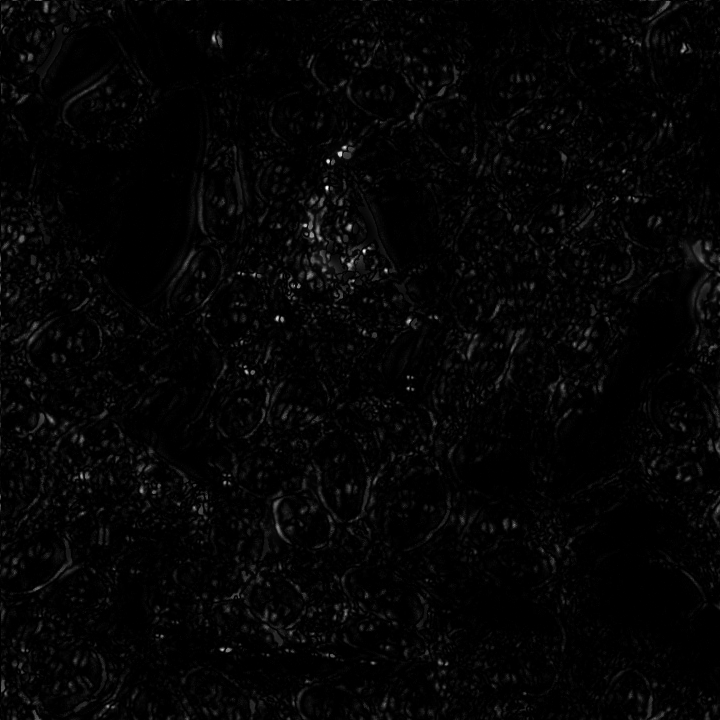
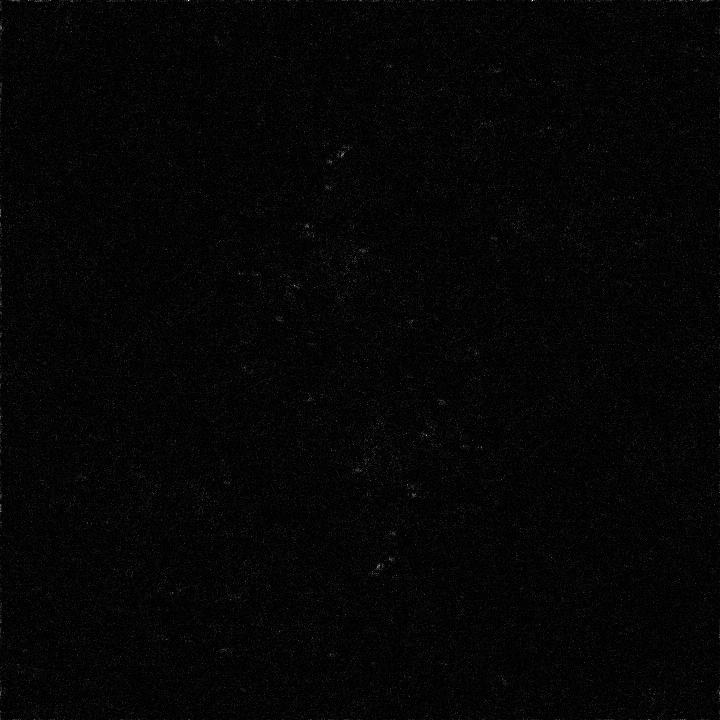
Separar la fase de la amplitud
Intenté separar ambas cosas y solo multiplicar la fase de la transformada de Fourier por pi/2, pero no funcionó :(

diff --git a/IO_Entrega1_Punto4a.py b/IO_Entrega1_Punto4a.py
@@ -21,19 +21,23 @@ def firstlens(t1, deltaxprim, deltayprim, w_length, f_length):
 def transmittanceFP(UF1, w_length, f_length, deltau, deltav, M, N, u, v):
 	"""
 	Transmittance in the Fourier Plane to manipulate the frequencies of the image
-	In this case a low-pass filter
+	In this case a phase contrast filter
 	"""
 	x=np.arange(-M,M)
 	y=np.arange(-N,N)
 	x,y=np.meshgrid(x,y)
 	lim=500**2   #radius of 500um
 	t2_matrix=(deltau*x)**2 + (deltav*y)**2
-	t2_matrix[np.where(t2_matrix<=lim)]=1*(np.exp(1j*(np.pi/2)))
+	t2_matrix[np.where(t2_matrix<=lim)]=np.pi/2
 	t2_matrix[np.where(t2_matrix>lim)]=1
 
-	t2=t2_matrix*UF1          
+	phase=np.angle(UF1)  #Fourier Transform Phase
 
-	return t2,t2_matrix
+	t2phase=t2_matrix*phase
+
+	t2=np.abs(UF1)*np.exp(1j*t2phase)         
+
+	return t2phase,t2_matrix
 
 
 def secondlens(t2, deltau, deltav, w_length, f_length):
